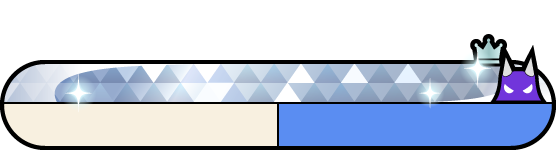
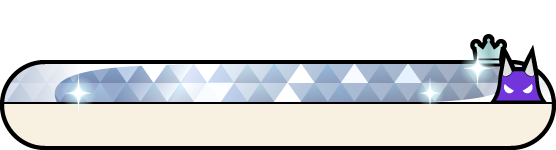
全ての称号プレートに対応

Changed region(s): [[0.4892, 0.6933, 1.0, 0.9867]]

diff --git a/script.js b/script.js
@@ -28,7 +28,7 @@ canvas.height = CANVAS_HEIGHT;
 
 // フォントの読み込み
 Promise.all(
-    FONT_DATAS.map(([name, path]) => 
+    FONT_DATAS.map(([name, path]) =>
         new FontFace(name, `url(${path})`).load().then(f => document.fonts.add(f))
     )
 ).then(() => {
@@ -45,7 +45,11 @@ danToggle.addEventListener('change', () => {
 
 form.addEventListener('submit', e => {
     e.preventDefault();
-    if (!isFontLoaded) return alert('フォント読込中です。少々お待ちください');
+
+    if (!isFontLoaded) {
+        return alert('フォント読込中です。少々お待ちください');
+    }
+
     drawPlate();
 });
 
@@ -67,41 +71,102 @@ function drawPlate() {
         return alert("称号名を入力してください");
     }
 
-    const platePath = showDan
-        ? `./images/plate/dan/${type}.png`
-        : `./images/plate/no-dan/${type}.png`;
+    // 常にdanをベースにする
+    const platePath = `./images/plate/dan/${type}.png`;
 
     const plateImage = new Image();
 
     plateImage.onload = () => {
         ctx.clearRect(0, 0, canvas.width, canvas.height);
-        ctx.drawImage(plateImage, 0, CANVAS_HEIGHT - plateImage.height, CANVAS_WIDTH, plateImage.height);
 
-        if (title) {
-            drawTitle(title);
-        }
+        // プレート本体
+        ctx.drawImage(
+            plateImage,
+            0,
+            CANVAS_HEIGHT - plateImage.height,
+            CANVAS_WIDTH,
+            plateImage.height
+        );
 
-        drawPlayerName(name, showDan);
-
+        // danの場合だけ下半分をdisplay_danで上書き
         if (showDan) {
-            drawDanImage();
+            drawDisplayDan(type, () => {
+                drawPlateContents(title, name, true);
+            });
         } else {
-            enableDownload();
+            drawPlateContents(title, name, false);
         }
     };
 
     plateImage.onerror = () =>
-        handleError('プレート画像の読み込みに失敗しました。\n現在素材探し中です...');
+        handleError(
+            'プレート画像の読み込みに失敗しました。\n現在素材探し中です...'
+        );
+
     plateImage.src = platePath;
+}
+
+function drawDisplayDan(type, callback) {
+    let fileName = 'default.png';
+
+    // 特殊なエフェクトがついてるやつはこっちで判定
+    if (/^clear(?:-e)?$/.test(type)) {
+        fileName = 'clear.png';
+    } else if (/^full(?:-e)?$/.test(type)) {
+        fileName = 'full.png';
+    } else if (/^donderful(?:-e)?$/.test(type)) {
+        fileName = 'donderful.png';
+    } else if (/^g-.*a$/.test(type)) {
+        fileName = 'g-ga.png';
+    } else if (/^g-.*k$/.test(type)) {
+        fileName = 'g-gk.png';
+    }
+
+    const displayDanImage = new Image();
+
+    displayDanImage.onload = () => {
+        ctx.drawImage(
+            displayDanImage,
+            0,
+            CANVAS_HEIGHT - displayDanImage.height
+        );
+
+        callback();
+    };
+
+    displayDanImage.onerror = () => {
+        handleError(
+            `段位表示用の素材 (${fileName}) の読み込みに失敗しました。`
+        );
+    };
+
+    displayDanImage.src = `./images/plate/display_dan/${fileName}`;
+}
+
+function drawPlateContents(title, name, showDan) {
+    if (title) {
+        drawTitle(title);
+    }
+
+    drawPlayerName(name, showDan);
+
+    if (showDan) {
+        drawDanImage();
+    } else {
+        enableDownload();
+    }
 }
 
 function drawTitle(title) {
     let fontSize = TITLE_MAX_FONT;
     const fontStack = getFontStack();
-    
+
     ctx.font = `${fontSize}px ${fontStack}`;
-    
-    while (ctx.measureText(title).width > TITLE_MAX_WIDTH && fontSize > TITLE_MIN_FONT) {
+
+    while (
+        ctx.measureText(title).width > TITLE_MAX_WIDTH &&
+        fontSize > TITLE_MIN_FONT
+    ) {
         fontSize--;
         ctx.font = `${fontSize}px ${fontStack}`;
     }
@@ -109,11 +174,12 @@ function drawTitle(title) {
     ctx.textAlign = "center";
     ctx.textBaseline = "middle";
     ctx.fillStyle = "#000";
-    ctx.fillText(title, CANVAS_WIDTH / 2, 72); 
+    ctx.fillText(title, CANVAS_WIDTH / 2, 72);
 }
 
 function drawPlayerName(name, showDan) {
     const fontStack = getFontStack();
+
     ctx.font = `${PLAYER_NAME_FONT}px ${fontStack}`;
     ctx.textAlign = 'center';
     ctx.textBaseline = 'middle';
@@ -123,12 +189,18 @@ function drawPlayerName(name, showDan) {
     ctx.miterLimit = 1;
 
     const textWidth = ctx.measureText(name).width;
-    const y = 114.5; 
-    let x = showDan ? CANVAS_WIDTH * 0.26 : CANVAS_WIDTH / 2;
+    const y = 114.5;
+
+    let x = showDan
+        ? CANVAS_WIDTH * 0.26
+        : CANVAS_WIDTH / 2;
 
     if (showDan) {
         const maxWidth = CANVAS_WIDTH / 2 - 20;
-        if (textWidth > maxWidth) x -= (textWidth - maxWidth) / 2;
+
+        if (textWidth > maxWidth) {
+            x -= (textWidth - maxWidth) / 2;
+        }
     }
 
     ctx.strokeText(name, x, y);
@@ -139,24 +211,40 @@ function drawDanImage() {
     const danLevel = document.getElementById('danLevel').value;
     const frameColor = document.getElementById('frameColor').value;
     const passColor = document.getElementById('passColor').value;
-    
+
     const danImage = new Image();
+
     danImage.onload = () => {
         const scale = 0.85;
         const w = danImage.width * scale;
         const h = danImage.height * scale;
+
+        // ここは今まで通り
         const x = CANVAS_WIDTH - w - 100;
-        // CANVAS_HEIGHTを基準に計算しているため、自動的に以前より下がります
         const y = CANVAS_HEIGHT - h - 7.5;
-        ctx.drawImage(danImage, x, y, w, h);
+
+        ctx.drawImage(
+            danImage,
+            x,
+            y,
+            w,
+            h
+        );
+
         enableDownload();
     };
-    danImage.onerror = () => handleError('この段位表示は素材がありません。');
-    danImage.src = `./images/dan-i/${danLevel}-${frameColor}${passColor}.png`;
+
+    danImage.onerror = () =>
+        handleError('この段位表示は素材がありません。');
+
+    danImage.src =
+        `./images/dan-i/${danLevel}-${frameColor}${passColor}.png`;
 }
 
 function getFontStack() {
-    return FONT_DATAS.map(([name]) => `'${name}'`).join(', ');
+    return FONT_DATAS
+        .map(([name]) => `'${name}'`)
+        .join(', ');
 }
 
 function enableDownload() {
@@ -166,15 +254,36 @@ function enableDownload() {
 
 function handleError(msg) {
     alert(msg);
+
     isImageDrawn = false;
     downloadButton.disabled = true;
+
     ctx.clearRect(0, 0, CANVAS_WIDTH, CANVAS_HEIGHT);
 }
 
+// blobに変換
 function handleDownload() {
-    if (!isImageDrawn) return alert('称号が生成されていません');
-    const link = document.createElement('a');
-    link.download = 'nameplate.png';
-    link.href = canvas.toDataURL();
-    link.click();
+    if (!isImageDrawn) {
+        return alert('称号が生成されていません');
+    }
+
+    canvas.toBlob(blob => {
+        if (!blob) {
+            return alert('画像の生成に失敗しました');
+        }
+
+        const url = URL.createObjectURL(blob);
+        const link = document.createElement('a');
+
+        link.href = url;
+        link.download = 'nameplate.png';
+
+        document.body.appendChild(link);
+        link.click();
+        link.remove();
+
+        setTimeout(() => {
+            URL.revokeObjectURL(url);
+        }, 1000);
+    }, 'image/png');
 }
